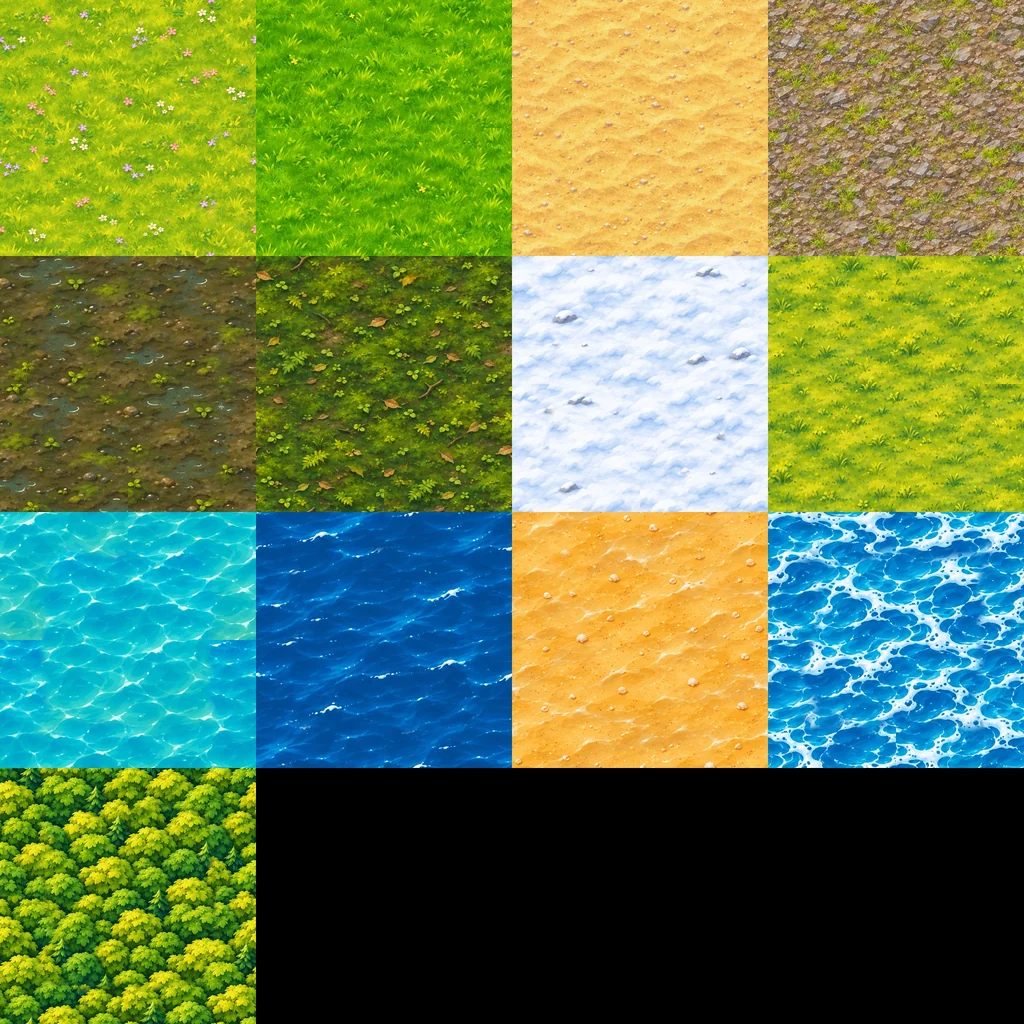
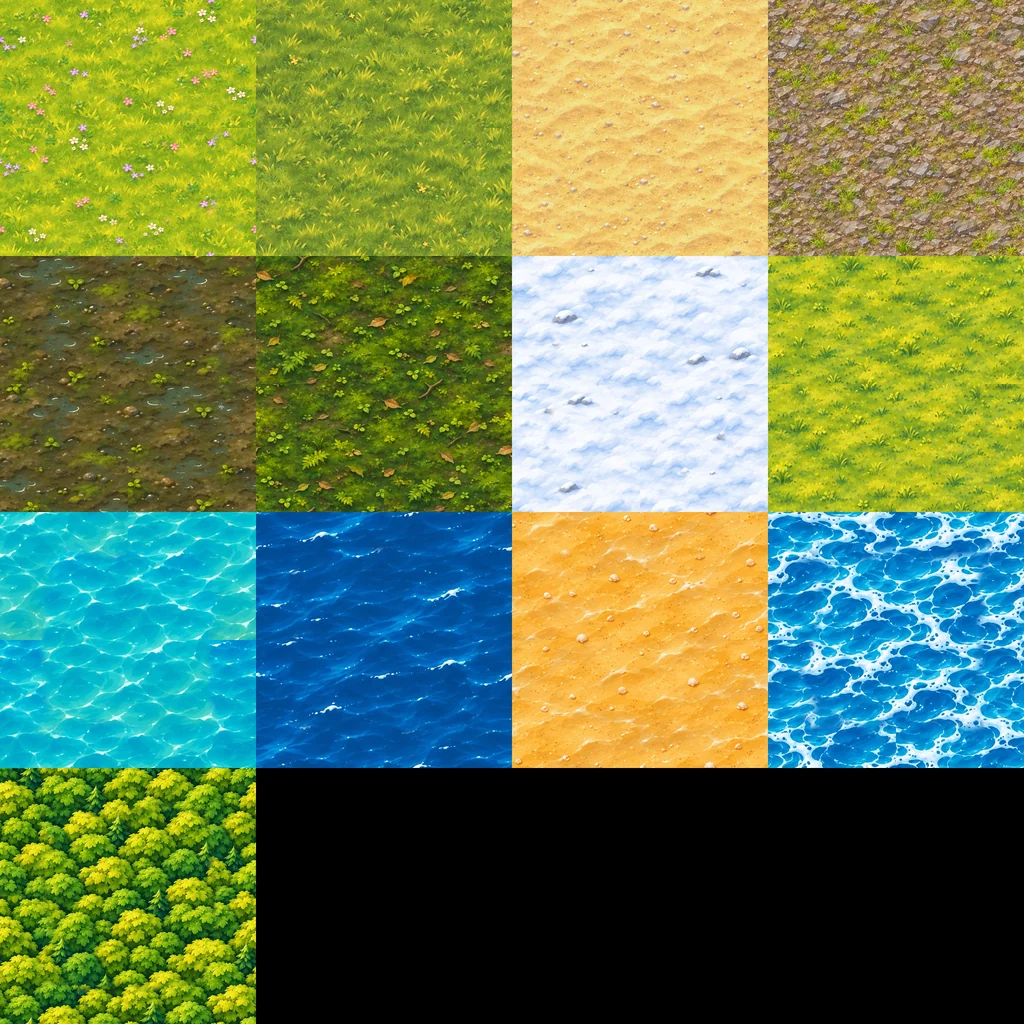
MR2 painted ground: first real-game run, seam-free three-cell blend, mock-up B colours
Ran the step 2 ground in the real game (RTX 3070, WebGL2): it compiles and draws.
Fixes from what it showed:
- Blend: the one-neighbour blend switched partner at hex corners, leaving straight
  seams and blotchy dither. Now each pixel weighs its own cell and the two
  neighbours it leans towards (the triangle of their centres), with a per-cell
  noise on each claim: smooth everywhere, edges wander like paint. Works for both
  hex shapes.
- Stronger, larger-scale wander; on Low too (arithmetic only, Low looked like tiles).
- Hex lines about 1% of a cell wide like mock-up B (1.2-3 px), still ~30% cream.
- Meadows and sand moved closer to mock-up B's colours in build.py (meadow hue
  82 -> 68-70 against the mock-up's 66).

art-samples/mr2-paint: compose.py (side-by-side, --shrink-mock for middle zoom),
side-by-sides near/middle, full shots, 2x crops, seam fix before/after, quality
High/Medium/Low, checks (switch off, no-WebGL2 fallback, Classic).

Changed region(s): [[0.25, 0.0, 0.5, 0.25]]

diff --git a/web/src/game/maproom/painted/groundShader.ts b/web/src/game/maproom/painted/groundShader.ts
@@ -4,16 +4,17 @@ import { Ground, SHADER_TEXTURES } from "./groundKinds";
  * The painted ground's WebGL2 shader (Map Room 2 Modern look, plan step 2).
  *
  * One quad over the world. Per pixel it finds its hex (`cellShape.ts` is the TypeScript twin of
- * these sums), reads the cell and the cell across its nearest side from the data texture
- * (`GroundData.ts`), and paints their ground textures sampled in world position, so neighbours
- * with the same ground join with no seam. The point used to pick the cell is pushed about by
- * smooth noise, so where two grounds meet the line wanders across the hex sides instead of
- * following them, and a fine noise breaks the meeting line into a painted, ragged edge. Last, the
- * faint hex lines (mock-up B strength: light cream, about 30%, 1-2 screen pixels) are drawn by the
- * true (un-pushed) point's distance to its hex side.
+ * these sums) and the two neighbours it leans towards; the three cell centres make a triangle, and
+ * the point's place in it weighs the three cells' grounds (data texture, `GroundData.ts`). Ground
+ * textures are sampled in world position, so neighbours with the same ground join with no seam.
+ * The point is pushed about by smooth noise first, and each cell's claim is roughened by a noise of
+ * its own, so where two grounds meet the line wanders across the hex sides as a painted edge
+ * instead of following them. Every weight changes smoothly, so there are no seams at hex corners.
+ * Last, the faint hex lines (mock-up B strength: light cream, about 30%, 1-2 screen pixels) are
+ * drawn by the true (un-pushed) point's distance to its hex side.
  *
  * Quality: High blends two lookups of each texture at different scales (hides the repeat) and
- * varies the light; Medium one lookup; Low no wandering edge and only the cell's own ground.
+ * varies the light; Medium one lookup; Low no edge noise and a short plain fade.
  */
 export const GROUND_VERTEX = `#version 300 es
 in vec2 aPosition;
@@ -114,6 +115,31 @@ float nearestSide(vec2 d, out vec2 normal) {
   return best;
 }
 
+// The six neighbours in axial steps (the same for both hex shapes).
+const vec2 NEIGHBOURS[6] = vec2[6](
+  vec2(1.0, 0.0), vec2(1.0, -1.0), vec2(0.0, -1.0), vec2(-1.0, 0.0), vec2(-1.0, 1.0), vec2(0.0, 1.0));
+
+// Ground blending, in hex units (corner radius 1): how far the noise pushes the point, the edge
+// noise's size and strength, and the fade width on Medium/High and on Low.
+const float WARP = 0.6;
+const float EDGE_FREQ = 2.2;
+const float EDGE_NOISE = 0.8;
+const float BAND = 0.08;
+const float BAND_LOW = 0.05;
+
+// The weights of p in the triangle (0, b, c).
+vec3 barycentric(vec2 p, vec2 b, vec2 c) {
+  float d00 = dot(b, b);
+  float d01 = dot(b, c);
+  float d11 = dot(c, c);
+  float d20 = dot(p, b);
+  float d21 = dot(p, c);
+  float den = d00 * d11 - d01 * d01;
+  float v = (d11 * d20 - d01 * d21) / den;
+  float w = (d00 * d21 - d01 * d20) / den;
+  return vec3(1.0 - v - w, v, w);
+}
+
 int groundAt(ivec2 cell) {
   ivec2 size = ivec2(uWorldCells);
   if (cell.x < 0 || cell.y < 0 || cell.x >= size.x || cell.y >= size.y) return ${Ground.UNLOADED};
@@ -150,49 +176,78 @@ void main() {
   vec2 dx = dFdx(uv);
   vec2 dy = dFdy(uv);
 
-  // The cell whose ground this pixel shows: the point is pushed about by smooth noise first, so
-  // grounds wander across the hex sides (not on Low).
-  vec2 hp = h;
-  if (uQuality > 0.5) {
-    hp += 0.32 * (vec2(fbm(h * 0.9), fbm(h * 0.9 + 19.7)) - 0.5) * 2.0;
-  }
+  // The point is pushed about by smooth noise first, so grounds wander across the hex sides (on
+  // Low too: it is a little arithmetic and no texture reads, and without it Low looked like tiles).
+  vec2 hp = h + WARP * (vec2(fbm(h * 0.6), fbm(h * 0.6 + 19.7)) - 0.5) * 2.0;
+
+  // The three cells round this point: its own hex and the two neighbours it leans towards. Their
+  // centres make the triangle the point sits in, and the point's place in that triangle weighs the
+  // three grounds. Weights only ever change smoothly, so there are no seams where the neighbours
+  // change (the earlier one-neighbour blend left straight steps at the hex corners).
   vec2 qr = roundAxial(axialOf(hp));
   vec2 centre = centreOf(qr);
-  vec2 normal;
-  float side = nearestSide(hp - centre, normal);
-  float inset = max(0.0, 1.0 - side / APOTHEM);
-  ivec2 cellA = toOffset(qr);
-  int gA = groundAt(cellA);
-  vec3 colour;
-  if (uQuality < 0.5) {
-    colour = paint(gA, uv, dx, dy);
-  } else {
-    ivec2 cellB = toOffset(roundAxial(axialOf(centre + normal * 2.0 * APOTHEM)));
-    int gB = groundAt(cellB);
-    colour = paint(gA, uv, dx, dy);
-    if (gB != gA) {
-      // Own weight 1 inside, 0.5 on the side; a fine noise roughens the meeting line, with its
-      // sign fixed by the cells' order so both sides of a side agree.
-      float own = 0.5 + 0.5 * smoothstep(0.0, 0.5, inset);
-      float rough = (valueNoise(vWorld / (uTexScale.x * 0.025)) - 0.5) * 0.9;
-      bool first = cellA.y < cellB.y || (cellA.y == cellB.y && cellA.x < cellB.x);
-      float w = clamp((own - 0.5 + (first ? rough : -rough)) * 2.5 + 0.5, 0.0, 1.0);
-      if (w < 0.999) colour = mix(paint(gB, uv, dx, dy), colour, w);
-    }
+  vec2 d = hp - centre;
+  vec2 dir1 = vec2(0.0);
+  vec2 dir2 = vec2(0.0);
+  float best1 = -1e9;
+  float best2 = -1e9;
+  for (int k = 0; k < 6; k++) {
+    float along = dot(d, centreOf(NEIGHBOURS[k]));
+    if (along > best1) { best2 = best1; dir2 = dir1; best1 = along; dir1 = NEIGHBOURS[k]; }
+    else if (along > best2) { best2 = along; dir2 = NEIGHBOURS[k]; }
+  }
+  vec3 bary = clamp(barycentric(d, centreOf(dir1), centreOf(dir2)), 0.0, 1.0);
+  ivec2 cell0 = toOffset(qr);
+  ivec2 cell1 = toOffset(qr + dir1);
+  ivec2 cell2 = toOffset(qr + dir2);
+  int g0 = groundAt(cell0);
+  int g1 = groundAt(cell1);
+  int g2 = groundAt(cell2);
+
+  // Each cell's claim: its weight, roughened by a noise of its own (continuous, as it hangs on the
+  // cell and the world position only). The strongest claim wins; claims within BAND of it share,
+  // which gives a short painted fade instead of a cut.
+  vec3 claim = bary;
+  float band = BAND_LOW;
+  if (uQuality > 0.5) {
+    vec2 p = h * EDGE_FREQ;
+    claim += EDGE_NOISE * (vec3(
+      fbm(p + vec2(cell0) * 0.37),
+      fbm(p + vec2(cell1) * 0.37),
+      fbm(p + vec2(cell2) * 0.37)) - 0.5);
+    band = BAND;
+  }
+  float top = max(claim.x, max(claim.y, claim.z));
+  vec3 w = max(claim - (top - band), 0.0);
+  w /= max(w.x + w.y + w.z, 1e-5);
+  // The same ground twice is one texture read.
+  if (g1 == g0) { w.x += w.y; w.y = 0.0; }
+  if (g2 == g0) { w.x += w.z; w.z = 0.0; }
+  else if (g2 == g1) { w.y += w.z; w.z = 0.0; }
+
+  vec3 colour = vec3(0.0);
+  if (w.x > 0.002) colour += w.x * paint(g0, uv, dx, dy);
+  if (w.y > 0.002) colour += w.y * paint(g1, uv, dx, dy);
+  if (w.z > 0.002) colour += w.z * paint(g2, uv, dx, dy);
+  colour /= max(w.x * step(0.002, w.x) + w.y * step(0.002, w.y) + w.z * step(0.002, w.z), 1e-5);
+
+  if (uQuality > 0.5) {
     if (uQuality > 1.5) {
       // Soft light and shade drifting over the land, as in a painting.
       colour *= 0.94 + 0.12 * valueNoise(vWorld / (uTexScale * 2.3) + 5.0);
     }
   }
 
-  // Faint hex lines by the true point's distance to its side, in screen pixels; they fade out
-  // when cells get too small to read.
+  // Faint hex lines by the true point's distance to its side, in screen pixels. Each cell draws
+  // half the line; the whole line is about 1% of a cell wide like mock-up B's (1.2 to 3 pixels),
+  // and it fades out when cells get too small to read.
   vec2 qr0 = roundAxial(axialOf(h));
   vec2 n0;
   float edge = APOTHEM - nearestSide(h - centreOf(qr0), n0);
   float pixels = edge / max(fwidth(edge), 1e-6);
-  float line = 1.0 - smoothstep(0.6, 1.6, pixels);
   float cellPixels = 1.0 / max(length(fwidth(h)), 1e-6);
+  float halfWidth = clamp(0.008 * cellPixels, 0.6, 1.5);
+  float line = 1.0 - smoothstep(halfWidth, halfWidth + 1.0, pixels);
   line *= smoothstep(5.0, 12.0, cellPixels);
   colour = mix(colour, uLine.rgb, uLine.a * line);
 

diff --git a/art-samples/mr2-paint/compose.py b/art-samples/mr2-paint/compose.py
@@ -1,0 +1,50 @@
+#!/usr/bin/env python3
+"""Side-by-side: a mock-up B crop beside a real game shot crop, scaled so their cells match.
+
+  python compose.py <game.png> <game box x0,y0,x1,y1> <game cell px> <mock box x0,y0,x1,y1> <out.jpg>
+                    [--shrink-mock] [--label "text"]
+
+`game cell px` is the width of one cell in the game shot; mock-up B's near cells are about 300 px
+wide in its 2000 px picture. By default the game crop is scaled by 300 / game cell px; with
+--shrink-mock the mock-up crop is scaled down to the game's cell size instead (for middle zoom
+shots, where enlarging the game shot would only blur it).
+"""
+import sys
+
+from PIL import Image, ImageDraw, ImageFont
+
+MOCKUP = "C:/Coding/BYMR/worktrees/mr2-mockup2/art-samples/mr2-mockup2/variant-B-soft-lines.jpg"
+MOCK_CELL = 300
+
+args = sys.argv[1:]
+shrink_mock = "--shrink-mock" in args
+label = "Game: painted ground, switch on"
+if "--label" in args:
+    at = args.index("--label")
+    label = args[at + 1]
+    del args[at:at + 2]
+args = [a for a in args if a != "--shrink-mock"]
+game_path, game_box, game_cell, mock_box, out = args[:5]
+
+gb = tuple(int(v) for v in game_box.split(","))
+mb = tuple(int(v) for v in mock_box.split(","))
+mock = Image.open(MOCKUP).convert("RGB").crop(mb)
+game = Image.open(game_path).convert("RGB").crop(gb)
+scale = MOCK_CELL / float(game_cell)
+if shrink_mock:
+    mock = mock.resize((round(mock.width / scale), round(mock.height / scale)), Image.LANCZOS)
+else:
+    game = game.resize((round(game.width * scale), round(game.height * scale)), Image.LANCZOS)
+height = max(mock.height, game.height)
+sheet = Image.new("RGB", (mock.width + game.width + 30, height + 44), (24, 26, 30))
+sheet.paste(mock, (0, 44))
+sheet.paste(game, (mock.width + 30, 44))
+draw = ImageDraw.Draw(sheet)
+try:
+    font = ImageFont.truetype("arialbd.ttf", 26)
+except OSError:
+    font = ImageFont.load_default()
+draw.text((10, 8), "Mock-up B (target)", fill=(240, 240, 240), font=font)
+draw.text((mock.width + 40, 8), label, fill=(240, 240, 240), font=font)
+sheet.save(out, quality=88)
+print(out, sheet.size)

diff --git a/web/tools/mr2-paint/build.py b/web/tools/mr2-paint/build.py
@@ -45,7 +45,7 @@ JOBS = ["ground-a", "ground-b", "sea", "canopy", "decals", "sea-rocks", "cliff",
 # (sheet, quadrant 0..3 row by row or None for the whole square, mock-up B box to match or None)
 TEXTURE_ORDER: list[tuple[str, str, int | None, tuple[int, int, int, int] | None]] = [
     ("meadow", "ground-a", 0, (600, 660, 800, 760)),
-    ("lush", "ground-a", 1, None),
+    ("lush", "ground-a", 1, (1000, 780, 1150, 860)),
     ("sand", "ground-a", 2, (200, 760, 260, 920)),
     ("rock", "ground-a", 3, None),
     ("marsh", "ground-b", 0, None),
@@ -59,6 +59,10 @@ TEXTURE_ORDER: list[tuple[str, str, int | None, tuple[int, int, int, int] | None
     ("canopy", "canopy", None, (1250, 200, 1500, 400)),
 ]
 ATLAS_COLUMNS = 4
+# How far each texture moves to its mock-up B colour (default 0.5). The meadows went further after
+# the first in-game look: they came out greener and darker than mock-up B (hue 82 against 66);
+# the sand came out darker.
+MATCH_STRENGTH = {"meadow": 0.9, "lush": 0.8, "meadow-plain": 0.9, "sand": 0.8}
 
 
 def take() -> None:
@@ -116,7 +120,7 @@ def build_textures() -> None:
         if not (SOURCE / f"{sheet}.webp").exists():
             print(f"texture {index:2} {name}: no sheet yet")
             continue
-        square = match_colour(seamless(cut_texture(sheet, quadrant), index), box)
+        square = match_colour(seamless(cut_texture(sheet, quadrant), index), box, MATCH_STRENGTH.get(name, 0.5))
         tile = Image.fromarray(square.round().astype(np.uint8), "RGB")
         atlas.paste(tile, ((index % ATLAS_COLUMNS) * TEXTURE, (index // ATLAS_COLUMNS) * TEXTURE))
         print(f"texture {index:2} {name}")
